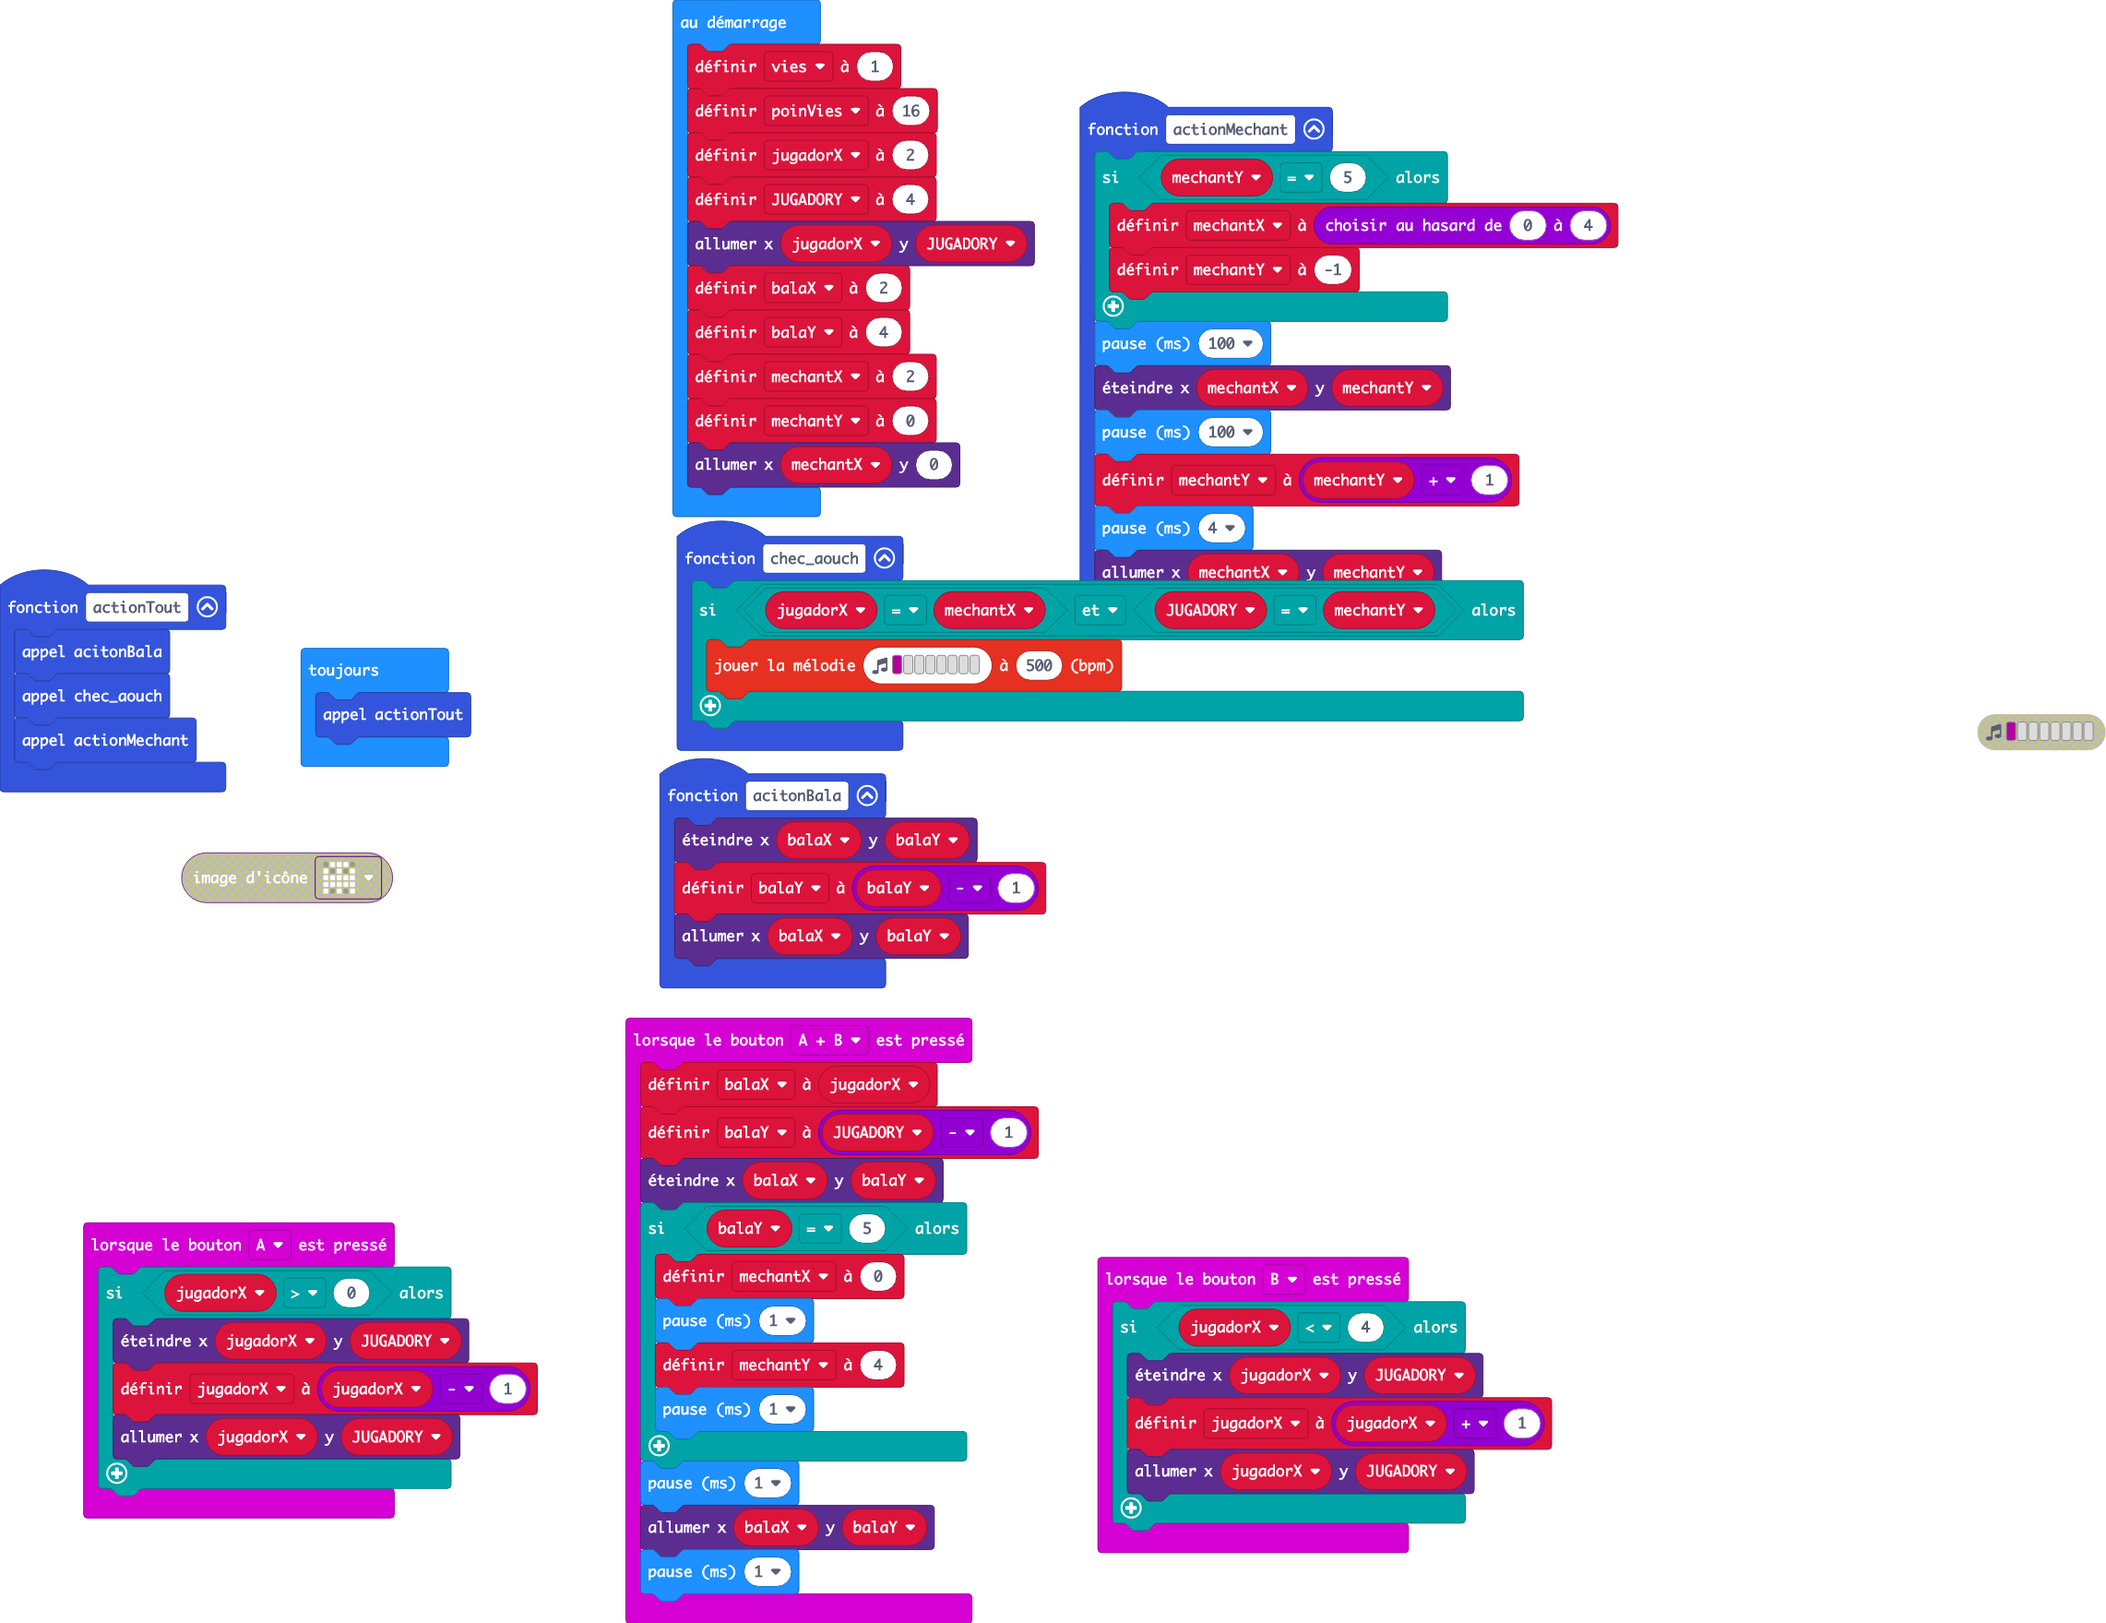
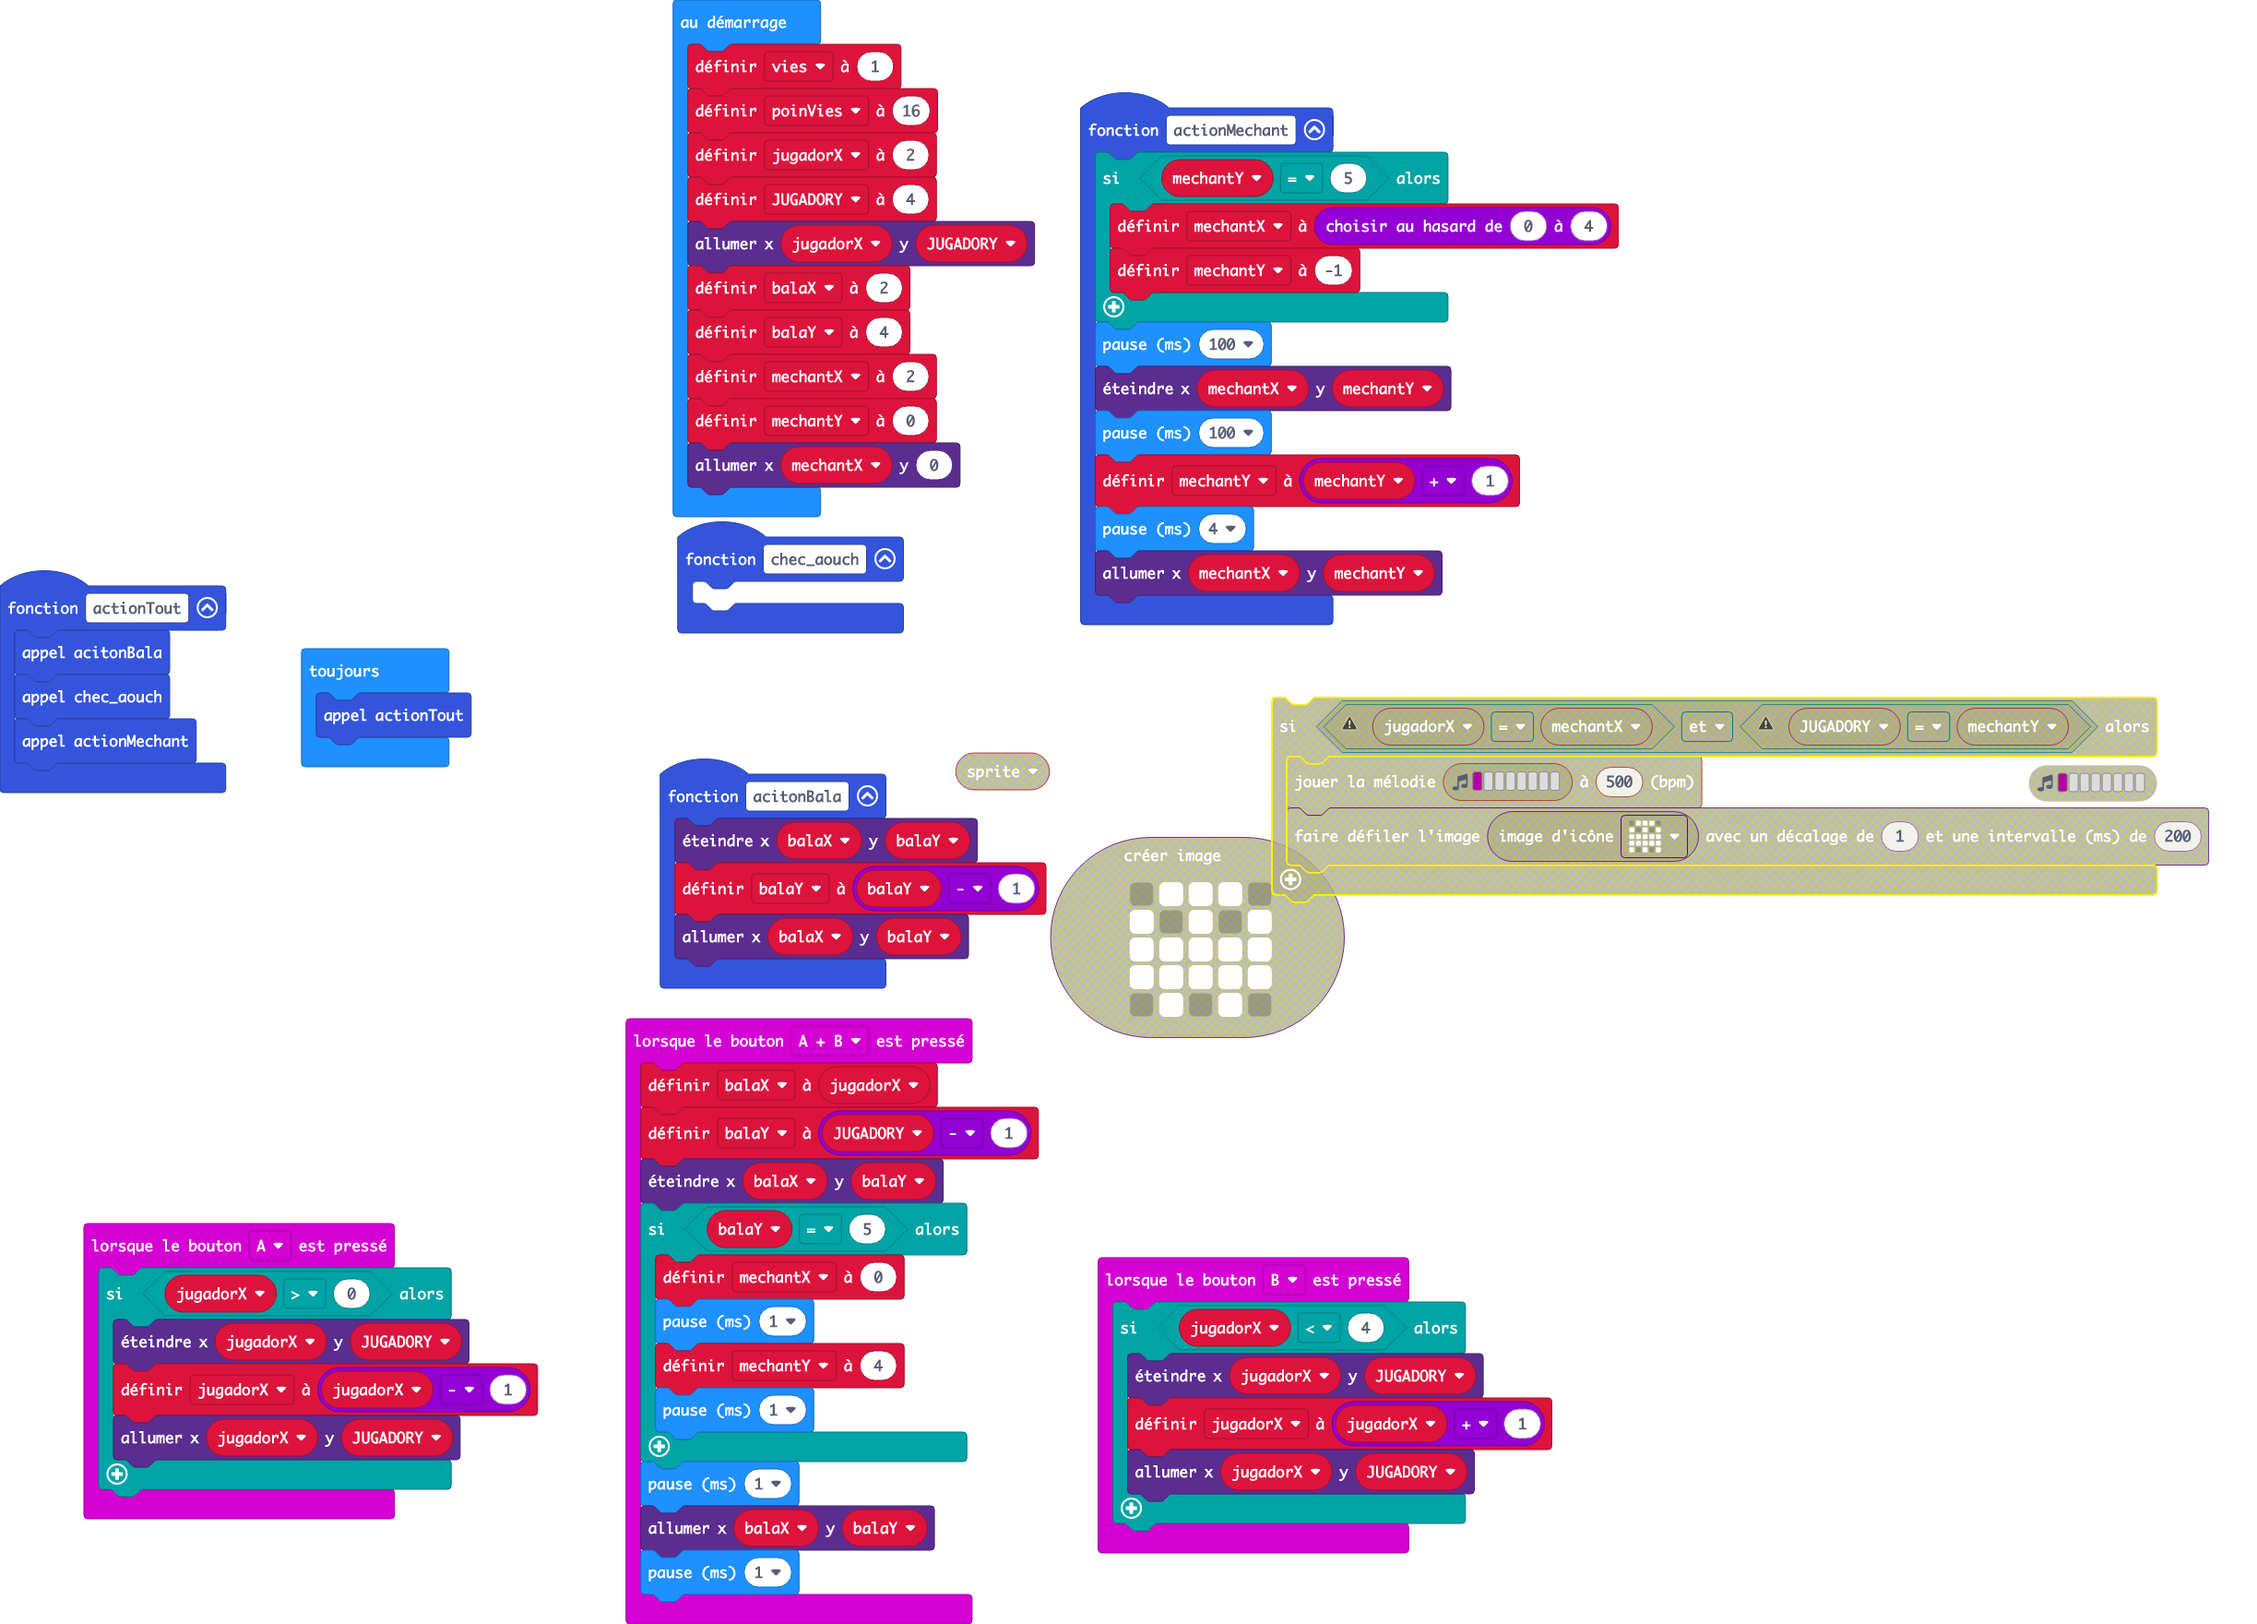
Mise à jour main.blocks, main.ts

diff --git a/main.ts b/main.ts
@@ -37,9 +37,7 @@ input.onButtonPressed(Button.AB, function () {
     basic.pause(1)
 })
 function chec_aouch () {
-    if (jugadorX == mechantX && JUGADORY == mechantY) {
-        music.playMelody("C - - - - - - - ", 500)
-    }
+	
 }
 function acitonBala () {
     led.unplot(balaX, balaY)
